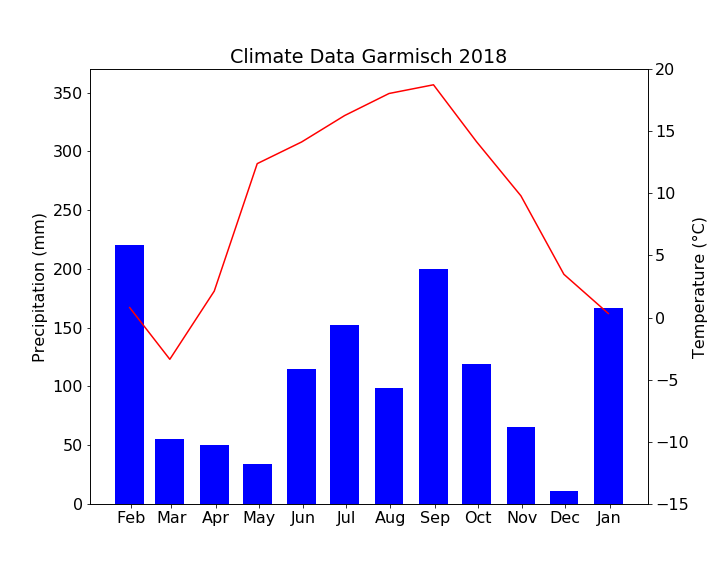
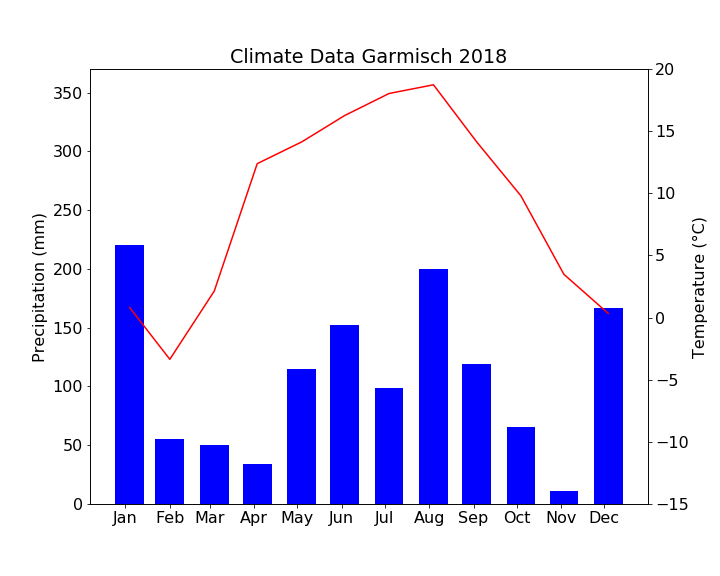
changes x labels

Changed region(s): [[0.5194, 0.875, 0.8556, 0.9062], [0.1528, 0.875, 0.4278, 0.9062], [0.4583, 0.875, 0.4889, 0.9062]]

diff --git a/create_climate_diagrams.py b/create_climate_diagrams.py
@@ -23,14 +23,14 @@ zugspitze_agg = list(zugspitze.loc[:," TMK"].resample("1M").agg(["mean"])["mean"
 # Add the arguments as mentioned in the docstring below [1P]
 # Set the default temperature range from -15°C to 20°C and the precipitation range from 0mm to 370mm [1P]
 def create_climate_diagram(df,
-                           temp_col,
-                           prec_col,
-                           title,
-                           filename,
-                           temp_min=-15,
-                           temp_max=20,
-                           prec_min=0,
-                           prec_max=370):
+                           temp_col:str,
+                           prec_col:str,
+                           title:str,
+                           filename:str,
+                           temp_min:int=-15,
+                           temp_max:int=20,
+                           prec_min:int=0,
+                           prec_max:int=370):
     """
     Draw a climate diagram.
     
@@ -70,7 +70,7 @@ def create_climate_diagram(df,
     # Draw temperature values as a red line and precipitation values as blue bars: [1P]
     # Hint: Check out the matplotlib documentation how to plot barcharts. Try to directly set the correct
     #       x-axis labels (month shortnames).
-    days = mdates.DayLocator(bymonthday=1)
+    days = mdates.DayLocator(bymonthday=28)
     monthFmt = mdates.DateFormatter("%b")
     ax1.xaxis.set_major_locator(days)
     ax1.xaxis.set_major_formatter(monthFmt)
